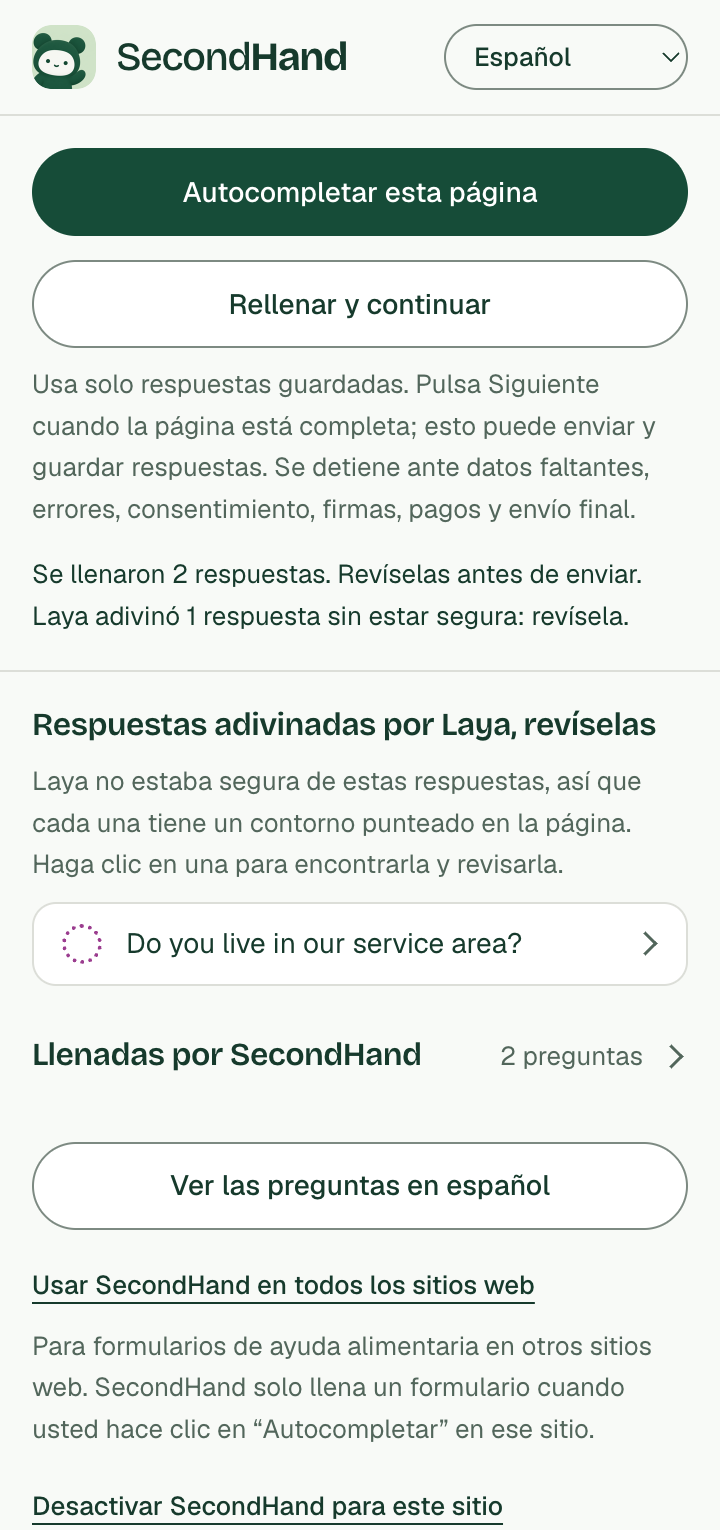
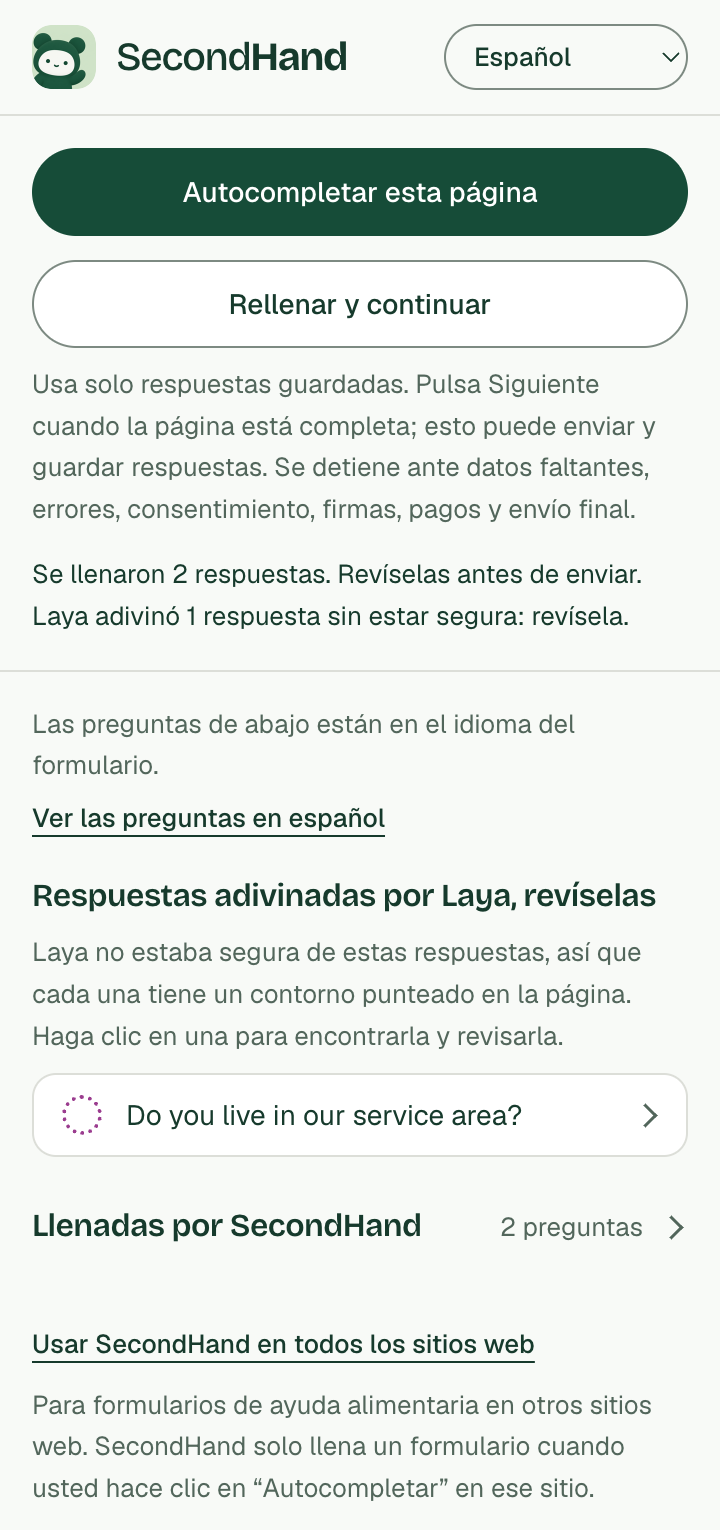
feat: show a site's questions in the reader's language in every list once translated
A Spanish reader was asked to check a guess on a question shown only in the form's
English. Once Chrome's translator has put the page's questions in the reader's
language, every list in the side panel (left for you, sensitive details, Laya's
guesses, filled, save to My information) shows each question in that language on
top and the form's words under it, as the question list does. Until then, in a
language other than English, one line above the lists says they are the form's
own words, with the question list's button under it.

diff --git a/extension/panel.js b/extension/panel.js
@@ -702,9 +702,30 @@
       $('checklist-note').hidden = !(ran && entries.some(item => item.status !== 'complete' && notSaved.includes(item.key)));
       $('checklist-section').hidden = !entries.length;
     }
+    // A question in the page's own words, as the lists below show it: once Chrome's translator has put the page's
+    // questions in the reader's language (Show questions in ...), that on top and the page's words under it, to
+    // match it with the form.
+    function questionWords(text, fallback = '') {
+      const words = fixedText(text, 200).trim();
+      const own = translated.get(text) || translated.get(words);
+      const label = document.createElement('span'); label.className = 'checklist-label'; label.dir = 'auto'; label.textContent = own ? fixedText(own, 400) : words || fallback;
+      if (!own || own === words) return [label];
+      const original = document.createElement('span'); original.className = 'checklist-detail'; original.dir = 'auto'; original.textContent = words;
+      return [label, original];
+    }
+    // Until then, in a language other than English, one line says the questions are the form's words, with the
+    // question list's own button under it, which puts them in the reader's.
+    const questionsOffered = () => Boolean(target) && fillable && service.supported() && (language !== 'en' || Boolean(questions)) && !questionBusy;
+    const wordsHinted = () => Boolean(site) && language !== 'en' && !translated.size && questionsOffered() &&
+      (named.length || held.length || layaGuesses.length || filledNames.length || savable.length) > 0;
+    function renderWordsHint() {
+      $('words-hint').hidden = !wordsHinted();
+      $('words-translate').textContent = needsDownload ? t('translate.download', { language: languageName(language) }) : t('questions.show');
+      $('words-translate').disabled = working || questionBusy;
+    }
     // A page with no checklist: one row per question Autofill left, in the page's own words. A row finds its question.
     function renderLeft() {
-      const signature = JSON.stringify([language, named]);
+      const signature = JSON.stringify([language, named, translated.size]);
       if (signature !== namedSignature) {
         namedSignature = signature;
         $('left-list').replaceChildren(...named.map(item => {
@@ -713,11 +734,11 @@
           const mark = document.createElement('span'); mark.className = 'checklist-mark'; mark.setAttribute('aria-hidden', 'true');
           if (item.done) mark.append(checkMark());
           const copy = document.createElement('span'); copy.className = 'checklist-copy';
-          const label = document.createElement('span'); label.className = 'checklist-label'; label.dir = 'auto'; label.textContent = item.label || t('left.unnamed');
           const status = t(item.done ? 'checklist.complete' : item.held ? 'left.held' : 'checklist.missing');
           const detail = document.createElement('span'); detail.className = 'checklist-detail'; detail.textContent = status;
-          copy.append(label, detail);
-          button.setAttribute('aria-label', t('checklist.rowLabel', { label: item.label || t('left.unnamed'), status }));
+          const words = questionWords(item.label, t('left.unnamed'));
+          copy.append(...words, detail);
+          button.setAttribute('aria-label', t('checklist.rowLabel', { label: words[0].textContent, status }));
           button.append(mark, copy);
           button.addEventListener('click', trusted(() => { if (!button.disabled) focusField(item.key); }));
           return button;
@@ -729,7 +750,7 @@
     }
     // The questions Autofill filled on a page with no checklist, by name, with guesses marked. Folded away by default.
     function renderFilled() {
-      const signature = JSON.stringify([language, filledNames]);
+      const signature = JSON.stringify([language, filledNames, translated.size]);
       if (signature !== filledSignature) {
         filledSignature = signature;
         $('filled-list').replaceChildren(...filledNames.map(item => {
@@ -737,9 +758,8 @@
           row.className = 'checklist-item info complete';
           const mark = document.createElement('span'); mark.className = 'checklist-mark'; mark.setAttribute('aria-hidden', 'true'); mark.append(checkMark());
           const copy = document.createElement('span'); copy.className = 'checklist-copy';
-          const label = document.createElement('span'); label.className = 'checklist-label'; label.dir = 'auto'; label.textContent = item.label || t('left.unnamed');
           const detail = document.createElement('span'); detail.className = 'checklist-detail'; detail.textContent = t(item.guessed ? 'filled.guessed' : 'checklist.complete');
-          copy.append(label, detail);
+          copy.append(...questionWords(item.label, t('left.unnamed')), detail);
           row.append(mark, copy);
           return row;
         }));
@@ -749,15 +769,14 @@
     }
     // One row per question with no saved answer: its own words, then Save to My information once the page holds an answer.
     function renderSaves() {
-      const signature = JSON.stringify([language, savable]);
+      const signature = JSON.stringify([language, savable, translated.size]);
       if (signature === savableSignature) return;
       savableSignature = signature;
       $('save-list').replaceChildren(...savable.map(item => {
         const row = document.createElement('div');
         row.className = 'checklist-item save-row'; row.dataset.saveId = item.id;
         const copy = document.createElement('span'); copy.className = 'checklist-copy';
-        const label = document.createElement('span'); label.className = 'checklist-label'; label.dir = 'auto'; label.textContent = fixedText(item.label, 200);
-        copy.append(label);
+        copy.append(...questionWords(item.label));
         row.append(copy);
         if (item.answered) {
           const button = document.createElement('button');
@@ -781,15 +800,14 @@
     }
     // One row per held question, in its own words. The section's one button fills them all.
     function renderHeld() {
-      const signature = JSON.stringify(held);
+      const signature = JSON.stringify([held, translated.size]);
       if (signature === heldSignature) return;
       heldSignature = signature;
       $('held-list').replaceChildren(...held.map(item => {
         const row = document.createElement('div');
         row.className = 'checklist-item'; row.dataset.heldId = item.id;
         const copy = document.createElement('span'); copy.className = 'checklist-copy';
-        const label = document.createElement('span'); label.className = 'checklist-label'; label.dir = 'auto'; label.textContent = fixedText(item.label, 200);
-        copy.append(label);
+        copy.append(...questionWords(item.label));
         row.append(copy);
         return row;
       }));
@@ -797,7 +815,7 @@
     }
     // One row per question Laya guessed, in its own words, with the dotted outline it has on the page. A row finds it there.
     function renderGuesses() {
-      const signature = JSON.stringify([language, layaGuesses]);
+      const signature = JSON.stringify([language, layaGuesses, translated.size]);
       if (signature === guessesSignature) return;
       guessesSignature = signature;
       $('guesses-list').replaceChildren(...layaGuesses.map(item => {
@@ -806,9 +824,8 @@
         button.disabled = working || !target;
         const mark = document.createElement('span'); mark.className = 'checklist-mark guess-mark'; mark.setAttribute('aria-hidden', 'true');
         const copy = document.createElement('span'); copy.className = 'checklist-copy';
-        const label = document.createElement('span'); label.className = 'checklist-label'; label.dir = 'auto'; label.textContent = fixedText(item.label, 200);
-        copy.append(label);
-        button.setAttribute('aria-label', t('guesses.rowLabel', { label: fixedText(item.label, 200) }));
+        copy.append(...questionWords(item.label));
+        button.setAttribute('aria-label', t('guesses.rowLabel', { label: copy.firstChild.textContent }));
         button.append(mark, copy);
         button.addEventListener('click', trusted(() => { if (!button.disabled) focusField(item.id); }));
         return button;
@@ -1009,7 +1026,8 @@
     function renderQuestionControls() {
       const readable = Boolean(target) && fillable;
       const supported = service.supported();
-      $('questions-show').hidden = !(readable && supported && (language !== 'en' || questions)) || questionBusy;
+      // The line above the lists offers the same button, nearer what it is for.
+      $('questions-show').hidden = !questionsOffered() || wordsHinted();
       $('questions-show').disabled = working || questionBusy;
       $('questions-show').textContent = needsDownload ? t('translate.download', { language: languageName(language) }) : t(questions ? 'questions.refresh' : 'questions.show');
       // Without Chrome's translator the feature is hidden behind one plain line.
@@ -1018,6 +1036,7 @@
       $('questions-note').textContent = note ? words(note.message) : '';
       $('questions-note').classList.toggle('error', Boolean(note?.error));
       $('questions').hidden = !readable || !questions;
+      renderWordsHint();
     }
     function renderQuestionList() {
       $('questions-list').replaceChildren(...(questions?.items || []).map(questionRow));
@@ -1101,6 +1120,7 @@
         if (!current()) return;
         translated = results;
         renderQuestionList();
+        renderLeft(); renderFilled(); renderSaves(); renderHeld(); renderGuesses(); renderWordsHint();
         say({ key: 'translate.done' });
       } catch (error) {
         say({ key: 'translate.failed', params: { detail: fixedText(error.message, 200) } }, true);
@@ -1328,15 +1348,16 @@
       focusField(left[leftCursor++ % left.length]);
     }));
     $('questions-show').addEventListener('click', trusted(() => { if (!$('questions-show').disabled) showQuestions(true); }));
+    $('words-translate').addEventListener('click', trusted(() => { if (!$('words-translate').disabled) showQuestions(true); }));
     $('summary-get').addEventListener('click', trusted(() => { if (!$('summary-get').disabled) summarize(true); }));
     // The choice is saved in this extension's storage; the widget follows through the storage event.
     function relabel() {
       applyStatic();
       $('language').value = language;
-      if (page) { renderChecklist(); renderLeft(); renderFilled(); renderSaves(); renderGuesses(); }
+      resetQuestions();
+      if (page) { renderChecklist(); renderLeft(); renderFilled(); renderSaves(); renderHeld(); renderGuesses(); }
       renderStatus();
       renderDesktop();
-      resetQuestions();
       resetSummary();
       controls();
       startSummary();

diff --git a/extension/strings.js b/extension/strings.js
@@ -269,6 +269,7 @@
 
     'questions.show': 'Show questions in English',
     'questions.refresh': 'Update the question list',
+    'questions.listHint': 'The questions below are in the form’s own words.',
     'questions.title': 'Questions on this page',
     'questions.count': { one: '{count} question', other: '{count} questions' },
     'questions.reading': 'Reading this page’s questions…',
@@ -766,6 +767,7 @@
 
     'questions.show': 'Ver las preguntas en español',
     'questions.refresh': 'Actualizar la lista de preguntas',
+    'questions.listHint': 'Las preguntas de abajo están en el idioma del formulario.',
     'questions.title': 'Preguntas de esta página',
     'questions.count': { one: '{count} pregunta', other: '{count} preguntas' },
     'questions.reading': 'Leyendo las preguntas de esta página…',
@@ -1260,6 +1262,7 @@
 
     'questions.show': 'Xem các câu hỏi bằng tiếng Việt',
     'questions.refresh': 'Cập nhật danh sách câu hỏi',
+    'questions.listHint': 'Các câu hỏi bên dưới dùng đúng lời của biểu mẫu.',
     'questions.title': 'Các câu hỏi trên trang này',
     'questions.count': { one: '{count} câu hỏi', other: '{count} câu hỏi' },
     'questions.reading': 'Đang đọc các câu hỏi của trang này…',
@@ -1755,6 +1758,7 @@
 
     'questions.show': '用中文显示问题',
     'questions.refresh': '更新问题列表',
+    'questions.listHint': '下面的问题是表格自己的原文。',
     'questions.title': '此页面上的问题',
     'questions.count': { one: '{count} 个问题', other: '{count} 个问题' },
     'questions.reading': '正在读取此页面的问题…',
@@ -2250,6 +2254,7 @@
 
     'questions.show': 'Afficher les questions en français',
     'questions.refresh': 'Mettre à jour la liste des questions',
+    'questions.listHint': 'Les questions ci-dessous sont dans les mots du formulaire.',
     'questions.title': 'Questions de cette page',
     'questions.count': { one: '{count} question', other: '{count} questions' },
     'questions.reading': 'Lecture des questions de cette page…',
@@ -2745,6 +2750,7 @@
 
     'questions.show': 'عرض الأسئلة بالعربية',
     'questions.refresh': 'تحديث قائمة الأسئلة',
+    'questions.listHint': 'الأسئلة أدناه بكلمات النموذج نفسه.',
     'questions.title': 'الأسئلة في هذه الصفحة',
     'questions.count': { one: 'عدد الأسئلة: {count}', other: 'عدد الأسئلة: {count}' },
     'questions.reading': 'جارٍ قراءة أسئلة هذه الصفحة…',

diff --git a/extension/panel.css b/extension/panel.css
@@ -58,7 +58,7 @@ main{padding:0 16px}
 .desktop-row{display:flex;flex-wrap:wrap;justify-content:space-between;align-items:center;gap:8px 12px;margin:16px 0 0;padding:12px 14px;background:#fff;border:1px solid var(--border);border-radius:12px}.desktop-row>span{flex:1 1 200px;font-weight:500}.desktop-row.error>span{color:var(--danger)}.desktop-row .button{min-height:36px;padding:6px 16px;font-size:13px}
 /* What happened, then the small print. An empty status keeps its place for screen readers and takes no room. */
 .status{margin-bottom:12px;overflow-wrap:anywhere}.status:empty{margin:0}.status.error{color:var(--danger)}
-.note{margin-bottom:12px;color:var(--muted-foreground)}
+.note{margin-bottom:12px;color:var(--muted-foreground)}.words-hint{margin-bottom:12px}.words-hint>.note{margin:0}
 .checklist-section{margin:12px 0 24px}.fields-heading{display:flex;justify-content:space-between;align-items:baseline;gap:12px;margin-bottom:8px}.fields-heading h2{font-family:var(--display);font-size:16px;font-weight:600;letter-spacing:-.3px;line-height:1.3}.fields-heading span{flex:none;color:var(--muted-foreground)}
 .page-checklist{background:#fff;border:1px solid var(--border);border-radius:12px;overflow:hidden}
 .checklist-item{display:flex;align-items:center;gap:12px;width:100%;border:0;border-bottom:1px solid var(--muted);background:none;padding:10px 14px;text-align:start}.checklist-item:last-child{border-bottom:0}.checklist-item:hover:enabled{background:var(--background)}.checklist-item:disabled{opacity:1;cursor:default}.checklist-item:focus-visible{outline-offset:-3px}

diff --git a/extension/panel.html b/extension/panel.html
@@ -64,6 +64,7 @@
         <p id="iowa-policy" class="status" data-i18n="panel.iowaPolicy" hidden></p>
       </div>
       <p id="laya-status" class="note" hidden></p>
+      <div id="words-hint" class="words-hint" hidden><p id="words-hint-text" class="note" data-i18n="questions.listHint"></p><button id="words-translate" class="text-button" type="button" data-i18n="questions.show"></button></div>
       <section id="left-section" class="checklist-section" hidden aria-labelledby="left-title">
         <div class="fields-heading"><h2 id="left-title" data-i18n="left.title"></h2><span id="left-summary"></span></div>
         <div id="left-list" class="page-checklist"></div>
